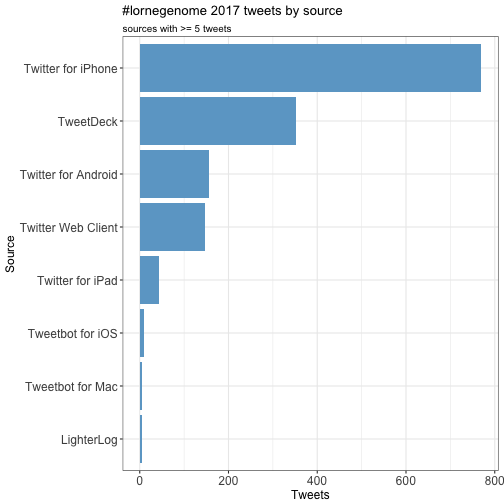
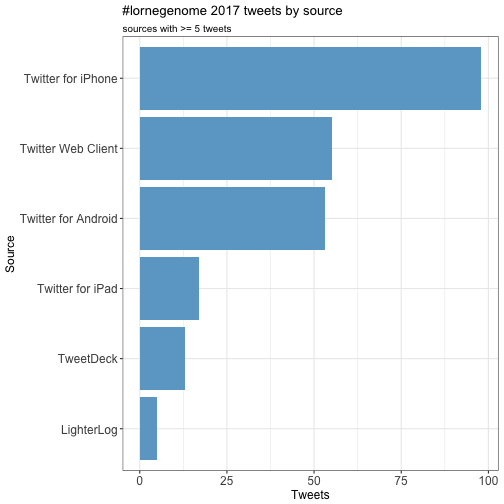
Use distinct(screen_name, source) to count source

diff --git a/lornegenome2017/code/R/lornegenome2017.md b/lornegenome2017/code/R/lornegenome2017.md
@@ -1,7 +1,7 @@
 Twitter Coverage of the Lorne Genome Conference 2017
 ========================================================
 author: Neil Saunders
-date: 2017-02-16 22:32:48
+date: 2017-08-02 17:11:10
 autosize: true
 
 <style>
@@ -86,9 +86,9 @@ We can define two types of interaction: the "replies" network (users who reply d
 
 
 ```r
-lorne_replies <- lorne %>% 
-  filter(!is.na(in_reply_to_status_screen_name)) %>% 
-  select(screen_name, in_reply_to_status_screen_name) %>% 
+lorne_replies <- lorne %>%
+  filter(!is.na(in_reply_to_status_screen_name)) %>%
+  select(screen_name, in_reply_to_status_screen_name) %>%
   graph.data.frame(directed = TRUE)
 
 V(lorne_replies)$label <- V(lorne_replies)$name
@@ -102,11 +102,11 @@ write_graph(lorne_replies, file = "lorne_replies.graphml", format = "graphml")
 
 
 ```r
-lorne_mentions <- lorne %>% 
-  filter(!is.na(mentions_screen_name)) %>% 
-  select(screen_name, mentions_screen_name) %>% 
-  mutate(mentions_screen_name = strsplit(mentions_screen_name, " ")) %>% 
-  unnest(mentions_screen_name) %>% 
+lorne_mentions <- lorne %>%
+  filter(!is.na(mentions_screen_name)) %>%
+  select(screen_name, mentions_screen_name) %>%
+  mutate(mentions_screen_name = strsplit(mentions_screen_name, " ")) %>%
+  unnest(mentions_screen_name) %>%
   graph.data.frame()
 
 V(lorne_mentions)$label <- V(lorne_mentions)$name
